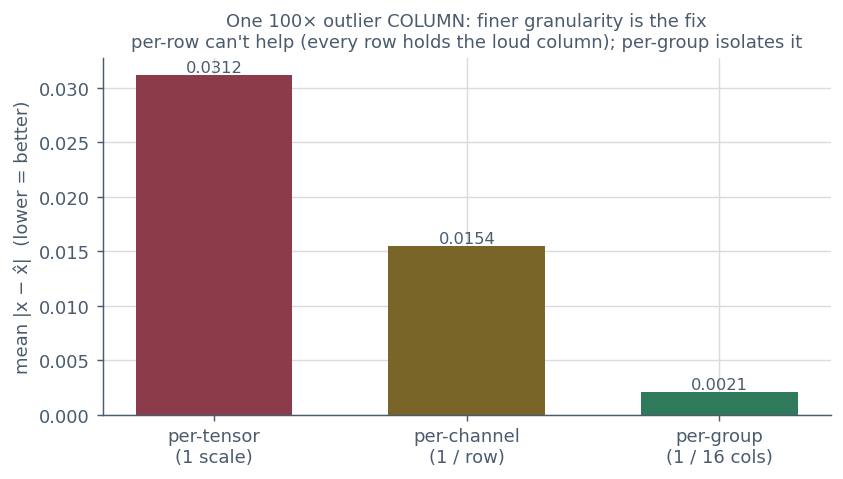
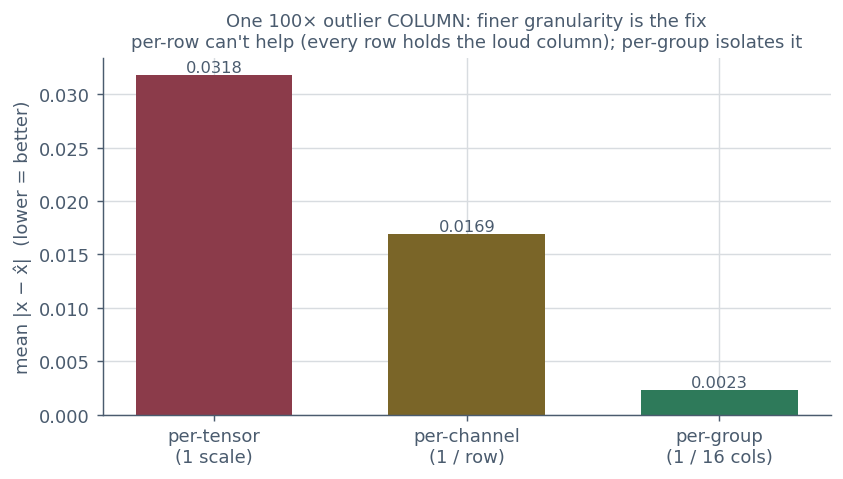
fix(09-llms): quantization review — torch-RNG figures, docstring signs, methods map, NF4 figure

diff --git a/09. LLMs/10-Quantization/code/make_figures.py b/09. LLMs/10-Quantization/code/make_figures.py
@@ -1,16 +1,18 @@
 """Reproducible figure generator for the Quantization chapter.
 
 Renders every original PNG used on the page into ../images/, with a muted palette that matches
-the chapter's Mermaid colors. Numbers here are derived from the same constants/algorithms as
-quantization.py, so the figures and the prose stay in lockstep. Re-run after any numeric change:
+the chapter's Mermaid colors. The quantitative figures (outlier-error bars, error-vs-bits) call
+the SAME seeded-torch routines as quantization.py — imported below — so the plotted numbers are
+bit-identical in provenance to the code the page cites. Re-run after any numeric change:
 
     python make_figures.py
 
-Verified on Python 3.12 / matplotlib 3.x. CPU only, deterministic (seeded).
+Verified on Python 3.12 / matplotlib 3.x, torch 2.x. CPU only, deterministic (seeded).
 """
 
 from __future__ import annotations
 
+import sys
 from pathlib import Path
 
 import matplotlib
@@ -18,6 +20,12 @@ import matplotlib
 matplotlib.use("Agg")  # headless: write PNGs, never open a window
 import matplotlib.pyplot as plt
 import numpy as np
+import torch
+
+# Share ONE source of truth with the demo: import the seeded-torch quantizers and constants
+# from quantization.py so the figures plot exactly what the code/notebook/page report.
+sys.path.insert(0, str(Path(__file__).resolve().parent))
+import quantization as q  # noqa: E402  (path set above)
 
 # Muted palette mirroring the chapter's Mermaid classDefs (all readable on white).
 BLUE = "#3A6B96"
@@ -116,35 +124,29 @@ def fig_weight_histogram_bins() -> str:
     return out.name
 
 
-def _quant_per_tensor(w: np.ndarray) -> np.ndarray:
-    s = np.abs(w).max() / INT8_QMAX
-    return np.clip(np.round(w / s), -INT8_QMAX, INT8_QMAX) * s
+def _outlier_matrix() -> torch.Tensor:
+    """Rebuild quantization.py §2's matrix EXACTLY: same seed, shape, and outlier column.
 
-
-def _quant_per_row(w: np.ndarray) -> np.ndarray:
-    s = np.abs(w).max(axis=1, keepdims=True) / INT8_QMAX
-    s = np.where(s == 0, 1.0, s)
-    return np.clip(np.round(w / s), -INT8_QMAX, INT8_QMAX) * s
-
-
-def _quant_per_group_cols(w: np.ndarray, group: int) -> np.ndarray:
-    rows, cols = w.shape
-    wg = w.reshape(rows, cols // group, group)
-    s = np.abs(wg).max(axis=-1, keepdims=True) / INT8_QMAX
-    s = np.where(s == 0, 1.0, s)
-    return (np.clip(np.round(wg / s), -INT8_QMAX, INT8_QMAX) * s).reshape(rows, cols)
+    Reproduces the §2 draw order bit-for-bit (seed 0 -> randn(8,128)*0.1, then column 17 set to
+    randn(8)*10.0) so the figure plots the same numbers the code/notebook/page report.
+    """
+    torch.manual_seed(SEED)
+    w = torch.randn(8, 128) * 0.1            # matches quantization.py §2: tame weights ~ N(0, 0.1)
+    w[:, 17] = torch.randn(8) * 10.0         # the one ~100x-louder column, in every row
+    return w
 
 
 def fig_outlier_error_bars() -> str:
-    """Reconstruction error: per-tensor vs per-channel vs per-group, under a column outlier."""
-    rng = np.random.default_rng(SEED)
-    rows, cols = 8, 128
-    w = rng.normal(0, 0.1, size=(rows, cols))
-    w[:, 17] = rng.normal(0, 10.0, size=rows)  # one loud column across all rows
+    """Reconstruction error: per-tensor vs per-channel vs per-group, under a column outlier.
+
+    Uses the SAME seeded-torch quantizers as quantization.py §2, so the bars read the cited
+    numbers (per-tensor 0.031840 / per-channel 0.016886 / per-group 0.002333).
+    """
+    w = _outlier_matrix()
     err = {
-        "per-tensor\n(1 scale)": np.abs(w - _quant_per_tensor(w)).mean(),
-        "per-channel\n(1 / row)": np.abs(w - _quant_per_row(w)).mean(),
-        "per-group\n(1 / 16 cols)": np.abs(w - _quant_per_group_cols(w, 16)).mean(),
+        "per-tensor\n(1 scale)": q.reconstruction_error(w, q.quantize_per_tensor_int8(w)),
+        "per-channel\n(1 / row)": q.reconstruction_error(w, q.quantize_per_channel_int8(w)),
+        "per-group\n(1 / 16 cols)": q.reconstruction_error(w, q.quantize_group_wise_int8(w, 16)),
     }
     fig, ax = plt.subplots(figsize=(6.6, 3.8))
     labels = list(err.keys())
@@ -196,7 +198,7 @@ def fig_outlier_heatmap() -> str:
 
 def fig_int4_memory_bars() -> str:
     """Llama-2-70B memory across fp16 / int8 / int4(group) — the headline reduction."""
-    b_int4 = INT4_QMAX and (4 / 8 + FP16_BYTES / GROUP_SIZE)  # 0.5 code + scale overhead = 0.5312
+    b_int4 = 4 / 8 + FP16_BYTES / GROUP_SIZE  # 0.5 byte code + fp16 scale per group = 0.5312
     params = 70e9
     precisions = ["fp16", "int8", "int4\n(group-64)"]
     bpp = [FP16_BYTES, 1.0, b_int4]
@@ -225,19 +227,24 @@ def fig_int4_memory_bars() -> str:
 
 
 def fig_error_vs_bits() -> str:
-    """Reconstruction error vs bit-width for group-wise weight quantization (measured here)."""
-    rng = np.random.default_rng(SEED)
-    w = rng.normal(0, 0.1, size=(256, 1024))
+    """Reconstruction error vs bit-width for group-wise weight quantization.
+
+    Uses the SAME seeded-torch weight block as quantization.py §3 (seed 0, randn(256,1024)*0.1,
+    group=64), so the 4-bit point reads exactly the cited 0.009132.
+    """
+    torch.manual_seed(SEED)
+    w = torch.randn(256, 1024) * 0.1          # matches quantization.py §3 exactly
     group = GROUP_SIZE
+    rows, cols = w.shape
     bits_list = [8, 6, 5, 4, 3, 2]
     errs = []
     for b in bits_list:
-        qmax = (1 << (b - 1)) - 1
-        wg = w.reshape(256, 1024 // group, group)
-        s = np.abs(wg).max(axis=-1, keepdims=True) / qmax
-        s = np.where(s == 0, 1.0, s)
-        w_hat = (np.clip(np.round(wg / s), -qmax, qmax) * s).reshape(256, 1024)
-        errs.append(np.abs(w - w_hat).mean())
+        qmax = (1 << (b - 1)) - 1             # signed symmetric max for b bits
+        wg = w.view(rows, cols // group, group)
+        s = wg.abs().amax(dim=-1, keepdim=True) / qmax            # one scale per group
+        s = torch.where(s == 0, torch.ones_like(s), s)
+        w_hat = (torch.clamp(torch.round(wg / s), -qmax, qmax) * s).view(rows, cols)
+        errs.append(q.reconstruction_error(w, w_hat))
     fig, ax = plt.subplots(figsize=(7.0, 3.8))
     ax.plot(bits_list, errs, "-o", color=PURPLE, linewidth=2, markersize=7)
     for b, e in zip(bits_list, errs):
@@ -258,6 +265,44 @@ def fig_error_vs_bits() -> str:
     return out.name
 
 
+# The 16 NF4 levels from the QLoRA paper (Dettmers et al. 2023): quantiles of a standard normal,
+# normalized to [-1, 1]. Denser near 0 (where Gaussian weights live), sparser in the tails.
+NF4_LEVELS = (
+    -1.0, -0.6961928009986877, -0.5250730514526367, -0.39491748809814453,
+    -0.28444138169288635, -0.18477343022823334, -0.09105003625154495, 0.0,
+    0.07958029955625534, 0.16093020141124725, 0.24611230194568634, 0.33791524171829224,
+    0.44070982933044434, 0.5626170039176941, 0.7229568362236023, 1.0,
+)
+
+
+def fig_nf4_vs_int4_levels() -> str:
+    """NF4 (quantile-spaced) vs evenly-spaced int4 levels over a Gaussian weight histogram."""
+    rng = np.random.default_rng(SEED)
+    w = rng.normal(0, 0.3, size=40000)        # a wider Gaussian so the level spread is visible
+    absmax = np.abs(w).max()
+    nf4 = np.array(NF4_LEVELS) * absmax        # NF4 levels scaled to the tensor's range
+    int4 = np.linspace(-absmax, absmax, 16)    # 16 evenly-spaced int4 levels over the same range
+    fig, ax = plt.subplots(figsize=(8.6, 3.6))
+    ax.hist(w, bins=120, color=BLUE, alpha=0.35, edgecolor="none", label="weights ~ N(0, 0.3)")
+    ax.vlines(nf4, 0, ax.get_ylim()[1] * 0.62, color=GREEN, linewidth=1.6,
+              label="NF4 levels (quantile-spaced)")
+    ax.vlines(int4, ax.get_ylim()[1] * 0.66, ax.get_ylim()[1] * 0.98, color=AMBER, linewidth=1.6,
+              label="int4 levels (evenly spaced)")
+    _style_ax(ax)
+    ax.set_xlabel("weight value", color=SLATE)
+    ax.set_ylabel("count", color=SLATE)
+    ax.set_title(
+        "NF4 puts its 16 levels where the weights are: dense near 0, sparse in the tails\n"
+        "evenly-spaced int4 wastes levels on the empty tails — NF4 is optimal for Gaussian data",
+        color=SLATE, fontsize=10)
+    ax.legend(loc="upper right", frameon=False, fontsize=8)
+    out = IMAGES_DIR / "nf4_vs_int4_levels.png"
+    fig.tight_layout()
+    fig.savefig(out, dpi=DPI, bbox_inches="tight")
+    plt.close(fig)
+    return out.name
+
+
 def main() -> None:
     IMAGES_DIR.mkdir(parents=True, exist_ok=True)
     made = [
@@ -267,6 +312,7 @@ def main() -> None:
         fig_outlier_error_bars(),
         fig_int4_memory_bars(),
         fig_error_vs_bits(),
+        fig_nf4_vs_int4_levels(),
     ]
     print(f"wrote {len(made)} figures to {IMAGES_DIR}:")
     for name in made:

diff --git a/09. LLMs/10-Quantization/code/quantization.py b/09. LLMs/10-Quantization/code/quantization.py
@@ -3,7 +3,7 @@ problem (per-tensor vs per-channel/group), and int4 group-wise — with reconstr
 and the real memory math.
 
 The whole landscape of LLM quantization rests on one formula: map a real value x to a small
-integer q with q = round(x / s) - z and recover it with x_hat = s * (q + z). This script
+integer q with q = round(x / s) + z and recover it with x_hat = s * (q - z). This script
 implements that map from scratch, then shows the single fact that makes LLM quantization hard:
 a few large-magnitude "outlier" channels wreck a per-tensor scale, and finer granularity
 (per-channel, then per-group) is the fix. Finally it quantizes a weight matrix to int4 in

diff --git a/09. LLMs/10-Quantization/10-Quantization.md b/09. LLMs/10-Quantization/10-Quantization.md
@@ -133,7 +133,7 @@ Asymmetric's error is ~40% lower here purely because it didn't waste integer cod
 
 ### Granularity: per-tensor vs per-channel vs per-group
 
-The *other* knob — and the one that matters most for LLMs — is **how many values share one scale**. Three levels, coarse to fine:
+Take a weight matrix $W \in \mathbb{R}^{d_\text{out} \times d_\text{in}}$ — **rows are output channels, columns are input channels** — and recall (from the heatmap below) that the troublesome outlier lives in a *fixed column* (one input feature, loud across every row). With that geometry fixed, the *other* knob — and the one that matters most for LLMs — is **how many values share one scale**. Three levels, coarse to fine:
 
 - **Per-tensor** — one $(s, z)$ for the **entire** weight matrix. Cheapest (one scale), most fragile (one outlier sets the scale for millions of weights).
 - **Per-channel** — one $(s, z)$ per **row/column** (output channel). A loud output channel only spends bits on itself.
@@ -185,7 +185,7 @@ with ONE 100x-outlier COLUMN (input channel 17, in every row):
   per-group is 14x better than per-tensor and 7x better than per-channel
 ```
 
-![Reconstruction error under a single 100× outlier column: per-tensor (one scale) is wrecked; per-row barely helps because every row holds the loud column; per-group (one scale per 16 columns) isolates the outlier and recovers most of the precision. Values from quantization.py §2; ratios: ~39× blowup, per-group ~14× better than per-tensor.](images/outlier_error_bars.png)
+![Reconstruction error under a single 100× outlier column: per-tensor (one scale) is wrecked; per-row barely helps because every row holds the loud column; per-group (one scale per 16 columns) isolates the outlier and recovers most of the precision. The bars are generated by calling the *same* seeded-torch quantizers as quantization.py §2, so they read its exact numbers (0.0318 / 0.0169 / 0.0023) — a 39× blowup, per-group ~14× better than per-tensor.](images/outlier_error_bars.png)
 
 > **Note:** the per-tensor error jumped **39×** the moment one column went loud. Per-row quantization — the obvious first fix — barely dented it, because the outlier is a *column*. Only column-aware granularity (per-group) fixed it. **The entire menu of LLM quantization methods below is, at heart, a different clever answer to "what do we do about the outlier channels?"**
 
@@ -230,7 +230,24 @@ graph TD
 
 ## The methods: each is an answer to the outlier problem
 
-Now the landscape. Read each as *"what does it do about outliers / low-bit error?"*
+Now the landscape. The single most useful lens: **each method is a different move against the same outlier problem** — keep them in FP16, migrate them, compensate for them, protect around them, or reshape the grid so low bits hurt less. Here is the whole family on one map:
+
+```mermaid
+graph TD
+    OUT["the outlier / low-bit problem<br/>(a few loud channels wreck a shared scale)"]:::root
+    OUT --> A["LLM.int8()<br/><b>keep outliers in FP16</b><br/>mixed-precision matmul"]:::wa
+    OUT --> B["SmoothQuant<br/><b>migrate outliers → weights</b><br/>so both go INT8"]:::wa
+    OUT --> C["GPTQ<br/><b>compensate</b> for rounding error<br/>(layer-wise, Hessian)"]:::wo
+    OUT --> D["AWQ<br/><b>protect salient channels</b><br/>(scale up the activation-loud 1%)"]:::wo
+    OUT --> E["NF4 / QLoRA<br/><b>reshape the grid</b><br/>(quantile levels for Gaussian weights)"]:::wo
+    OUT --> F["GGUF k-quants<br/><b>mix bit-widths</b> per tensor<br/>(fine group-wise, tuned)"]:::wo
+
+    classDef root fill:#8B3B4A,stroke:#7B2B3A,color:#fff
+    classDef wo fill:#2E7A5A,stroke:#1E6A4A,color:#fff
+    classDef wa fill:#7A6528,stroke:#6A5518,color:#fff
+```
+
+*The five moves against the outlier problem. Green = weight-only (quantize weights, activations stay FP16); amber = weight+activation (both quantized, so the activation outliers must be confronted directly). Read each method below as one of these moves.*
 
 ### LLM.int8() — isolate the outliers in FP16
 
@@ -275,6 +292,8 @@ $$XW = \big(X \cdot \operatorname{diag}(s)^{-1}\big)\big(\operatorname{diag}(s) 
 ### NF4 / QLoRA — a 4-bit datatype shaped for weights, for fine-tuning
 
 **NF4 (4-bit NormalFloat)** abandons the evenly-spaced ruler. Since weights are ~Gaussian, NF4 places its 16 levels at the **quantiles of a normal distribution** — denser near zero where the weights are, sparser in the tails — so it's *information-theoretically optimal for normally-distributed data*. **QLoRA** uses NF4 to freeze the base model in 4 bits and trains small [LoRA](../12-LoRA-and-PEFT/12-LoRA-and-PEFT.md) adapters on top in FP16, making it possible to **fine-tune a 65B model on a single 48 GB GPU**.
+
+![NF4's 16 levels (green, the actual quantile-spaced values from the QLoRA paper) vs evenly-spaced int4 levels (amber), overlaid on a Gaussian weight histogram. NF4 packs its levels where the weights actually are — dense near 0, sparse in the tails — while evenly-spaced int4 wastes resolution on the near-empty tails. This is what "optimal for Gaussian data" means concretely.](images/nf4_vs_int4_levels.png)
 
 > **Source / derivation:** [Dettmers et al., *QLoRA: Efficient Finetuning of Quantized LLMs* (2023)](https://arxiv.org/abs/2305.14314) — the NF4 quantile-spaced datatype, double quantization (quantize the scales too), and paged optimizers; fine-tunes a 4-bit base via FP16 LoRA adapters.
 